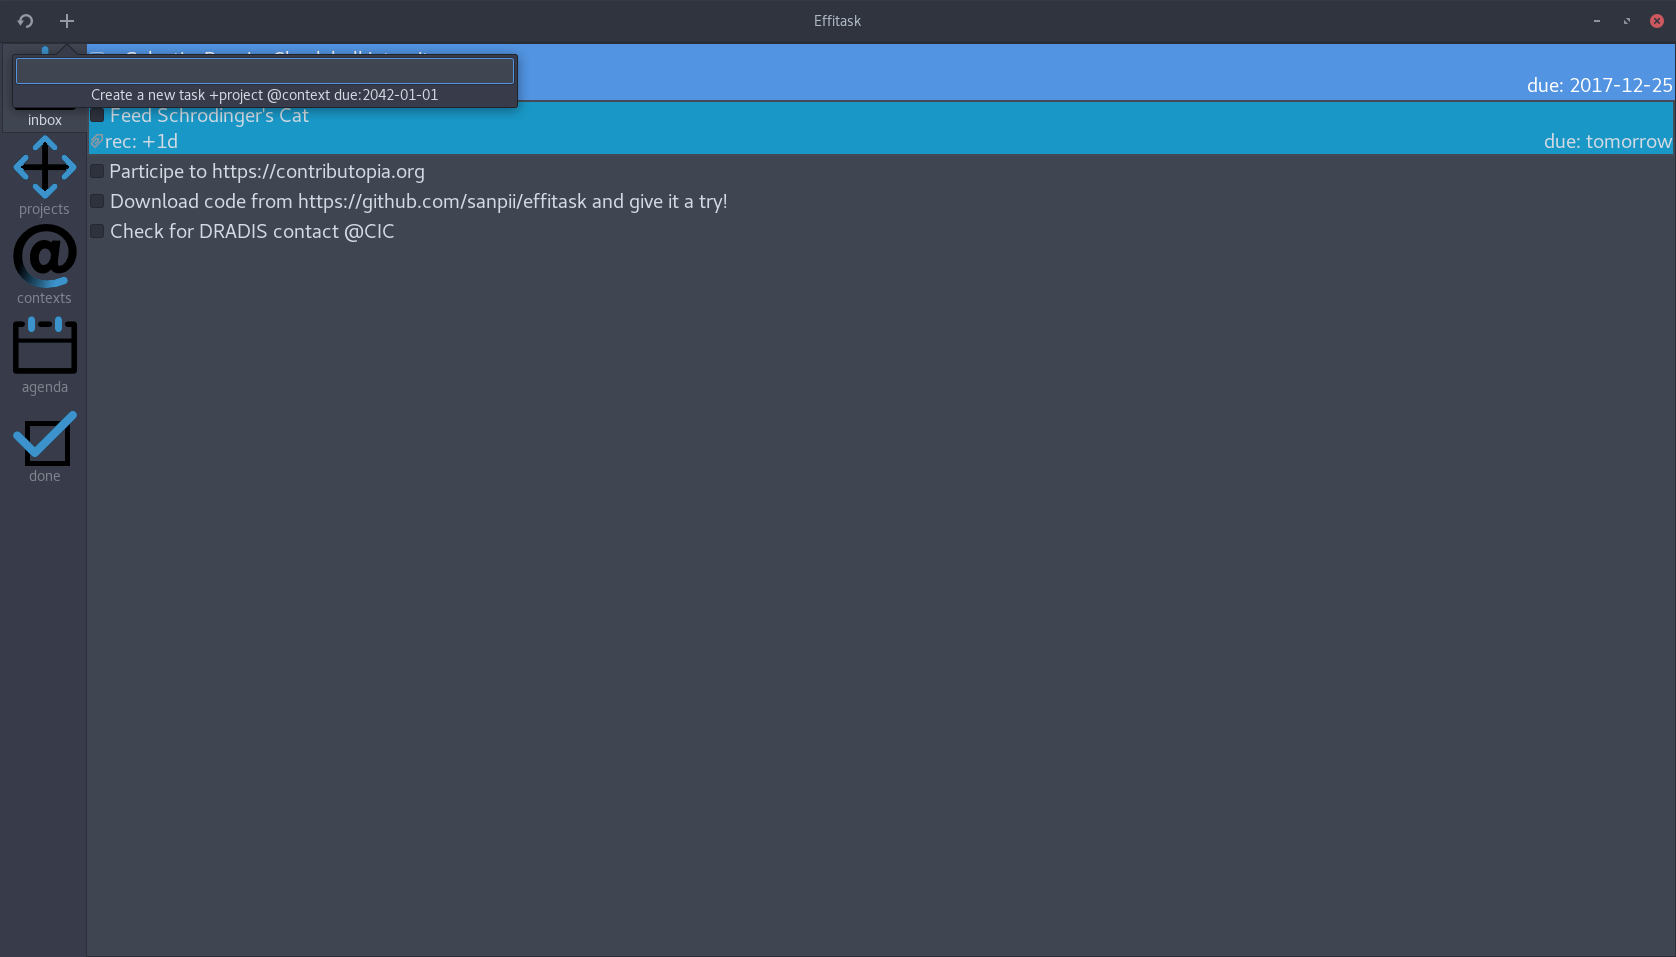
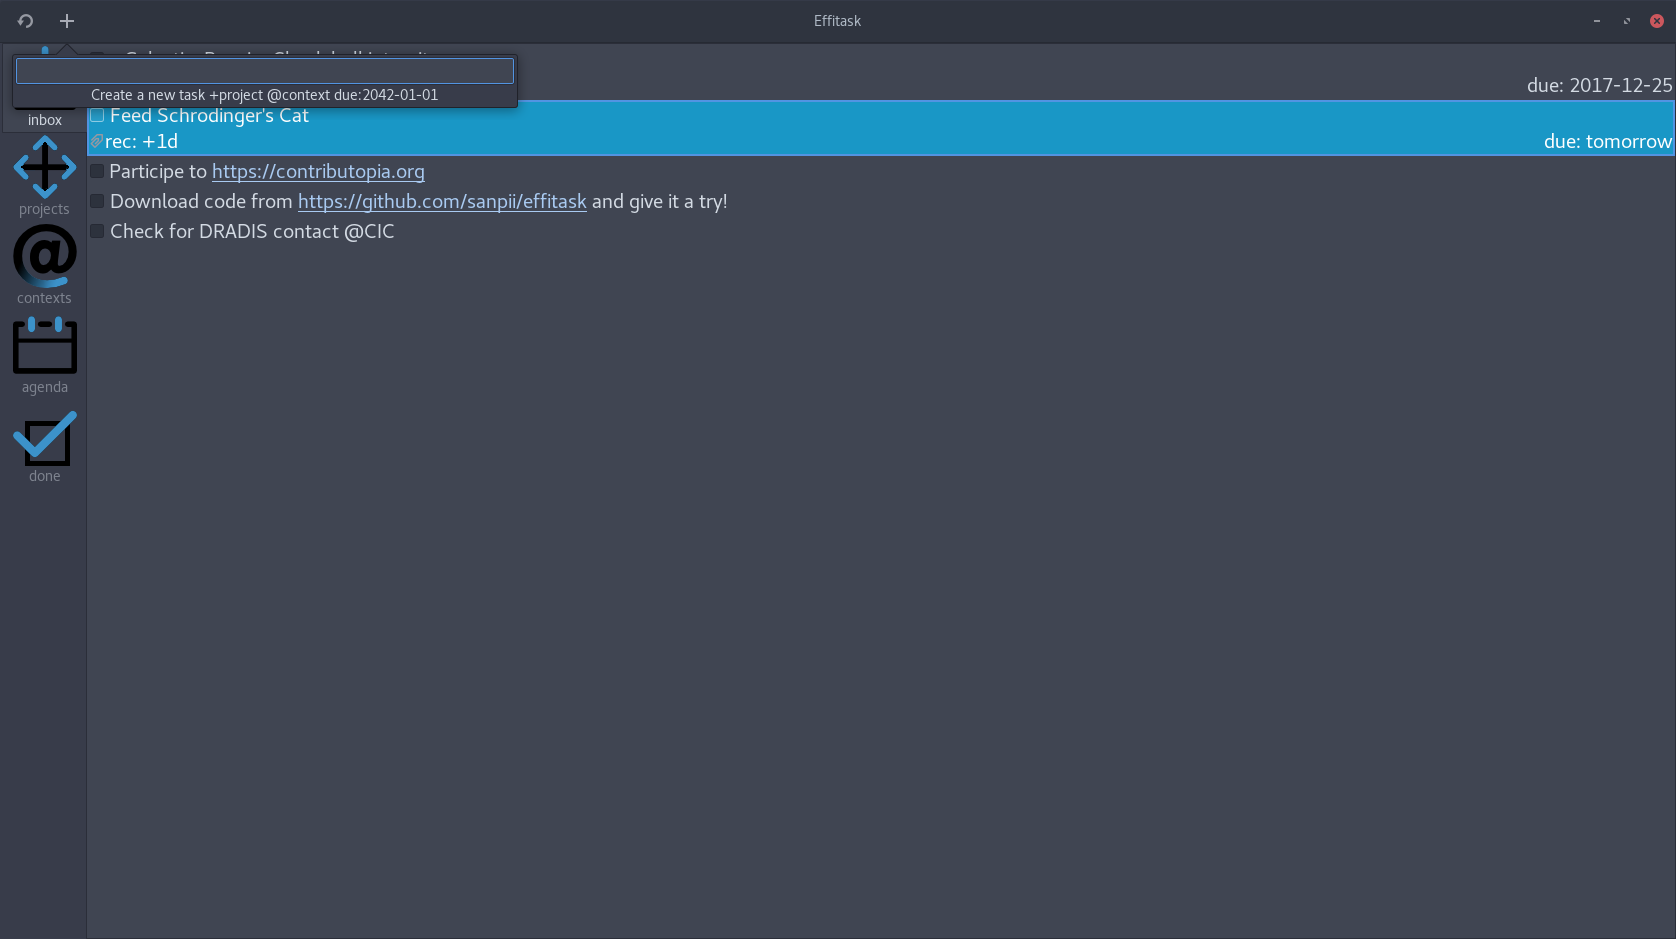
Clickable url

Changed region(s): [[0.0, 0.0309, 1.0, 0.525]]

diff --git a/src/tasks/task.rs b/src/tasks/task.rs
@@ -16,6 +16,15 @@ impl Task
         }
     }
 
+    pub fn markup_subject(&self) -> String
+    {
+        let regex = ::regex::Regex::new("(?P<url>[\\w]+://[^\\s]+)")
+            .unwrap();
+
+        regex.replace(&self.subject, "<a href=\"$url\">$url</a>")
+            .into_owned()
+    }
+
     fn note(task: &::todo_txt::Task) -> super::Note
     {
         let tag = match ::std::env::var("TODO_NOTE_TAG") {

diff --git a/src/widgets/task.rs b/src/widgets/task.rs
@@ -140,7 +140,7 @@ impl ::relm::Widget for Task
                             expand: true,
                             fill: true,
                         },
-                        label: self.model.task.subject.as_str(),
+                        markup: self.model.task.markup_subject().as_str(),
                         xalign: 0.,
                     },
                     #[name="note_button"]

diff --git a/src/main.rs b/src/main.rs
@@ -11,6 +11,7 @@ extern crate log;
 extern crate gdk;
 extern crate gtk;
 extern crate rand;
+extern crate regex;
 #[macro_use]
 extern crate relm;
 extern crate relm_attributes;
